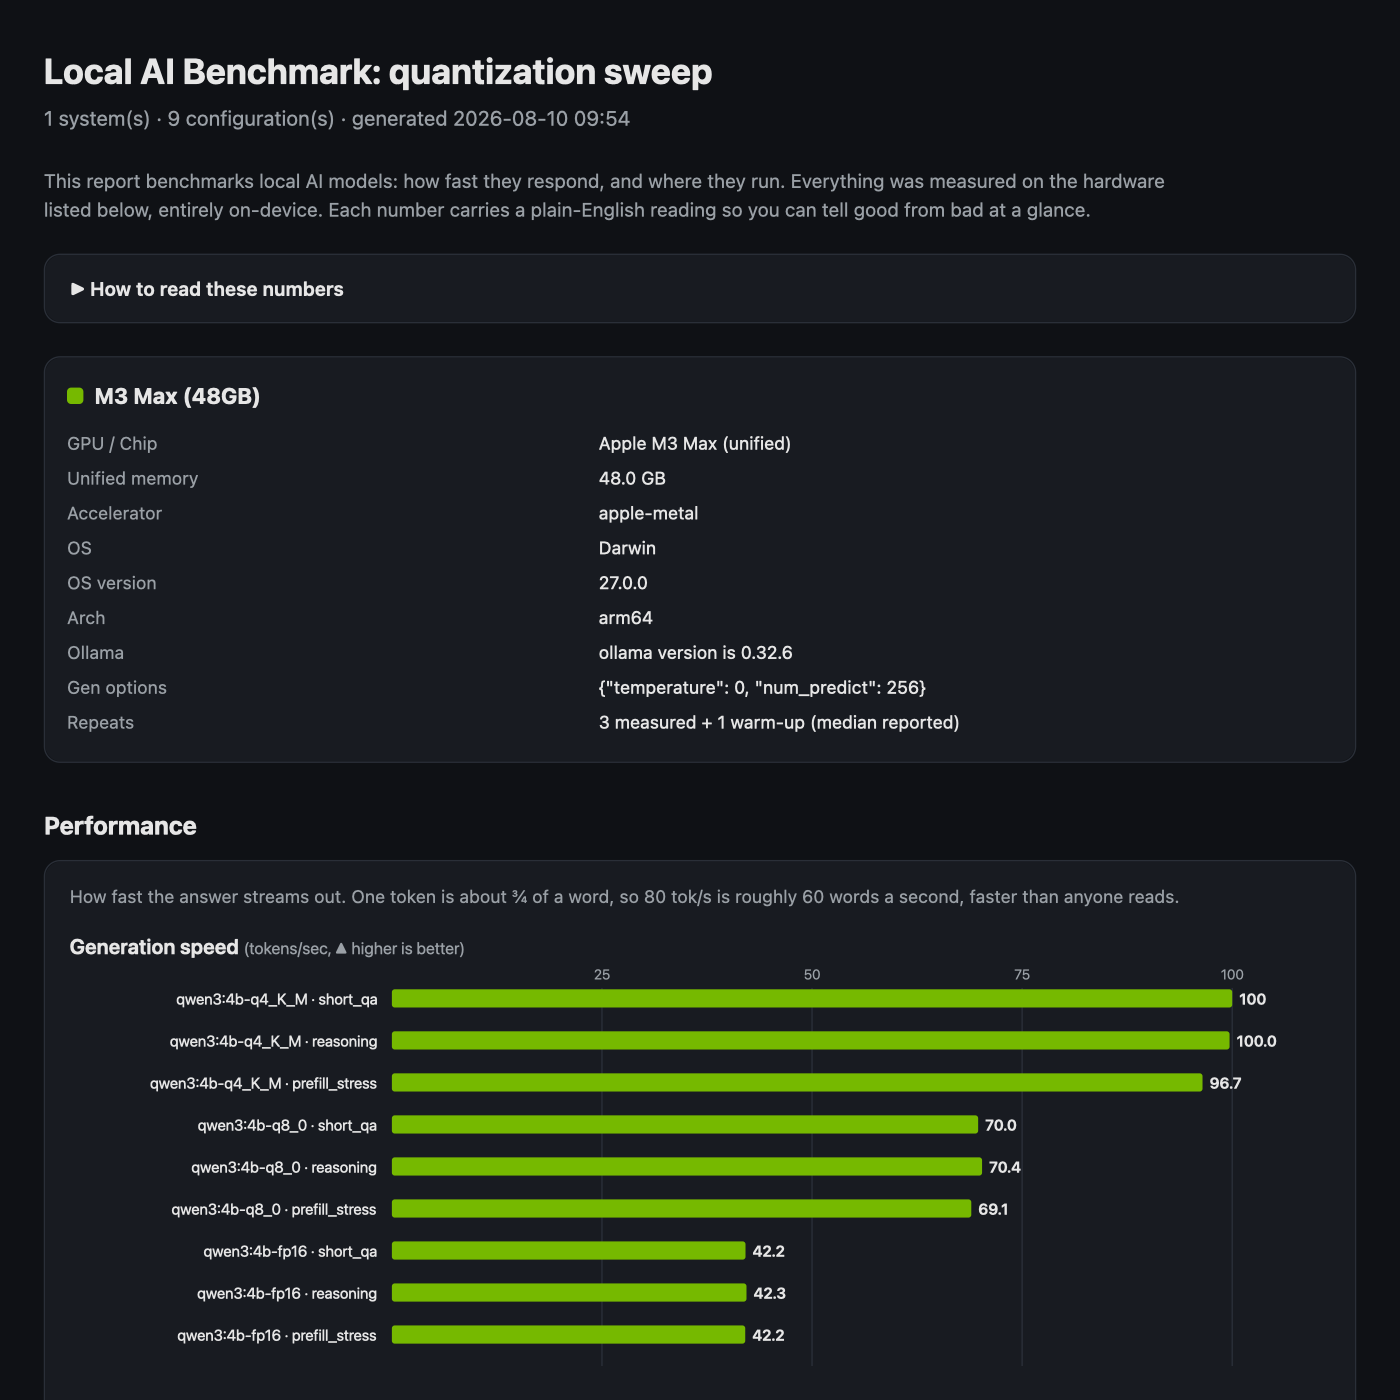
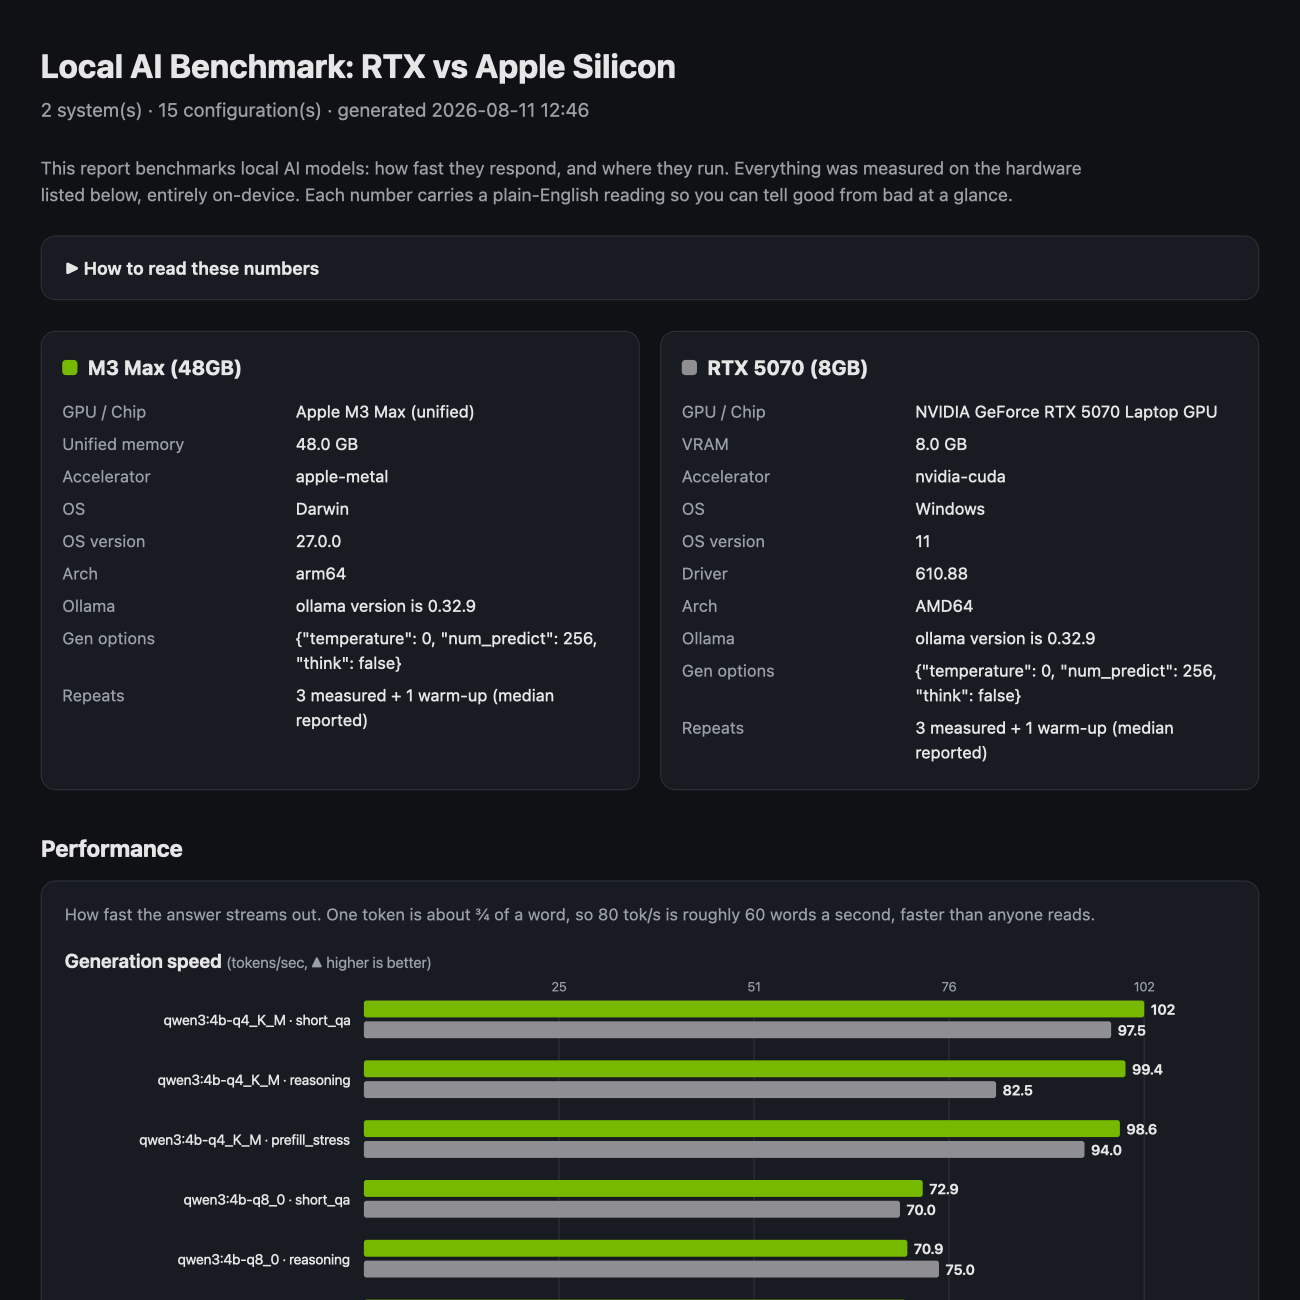
Update screenshots with real cross-system measurements
Replaces placeholder captures with the actual campaign: the cross-system view
flagging the VRAM wall on two ~8.1 GB models that fit in 48 GB of unified memory
and spill on an 8 GB card, and the generated report built from both machines'
data. Adds the cross-system screenshot to the README gallery.

The RTX data here is the corrected re-run. The earlier RTX campaign carried the
2,071 ms localhost artifact and was discarded rather than published; measured
client overhead on the new files is 17 to 26 ms.

diff --git a/README.md b/README.md
@@ -46,6 +46,12 @@ selectable for side-by-side comparison.
 
 ![Benchmark history with quality scores](docs/screenshots/07-runs.png)
 
+**Same model, two machines.** The cross-system view pairs runs by model and flags
+the VRAM wall automatically, with the throughput cost computed. Both models below
+are about 8.1 GB: they fit in 48 GB of unified memory and spill on an 8 GB card.
+
+![Cross-system comparison flagging the VRAM wall](docs/screenshots/08-cross-system.png)
+
 **Shareable HTML report.** Charts and a detail table, each number annotated.
 
 ![Generated HTML report](docs/screenshots/05-report.png)
